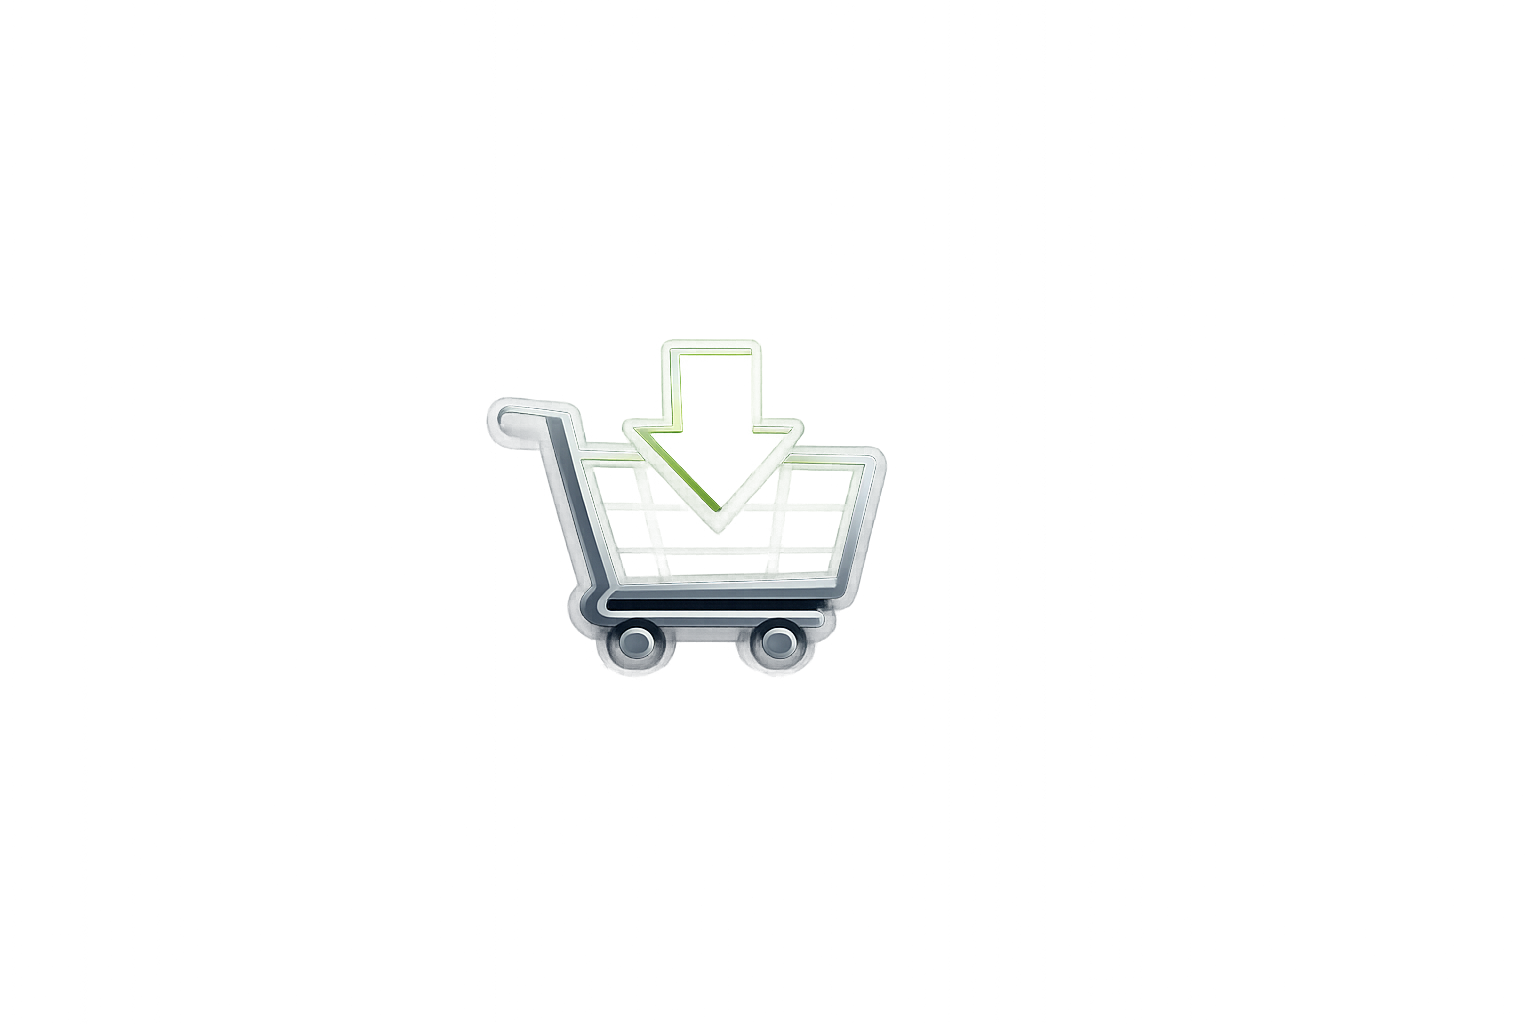
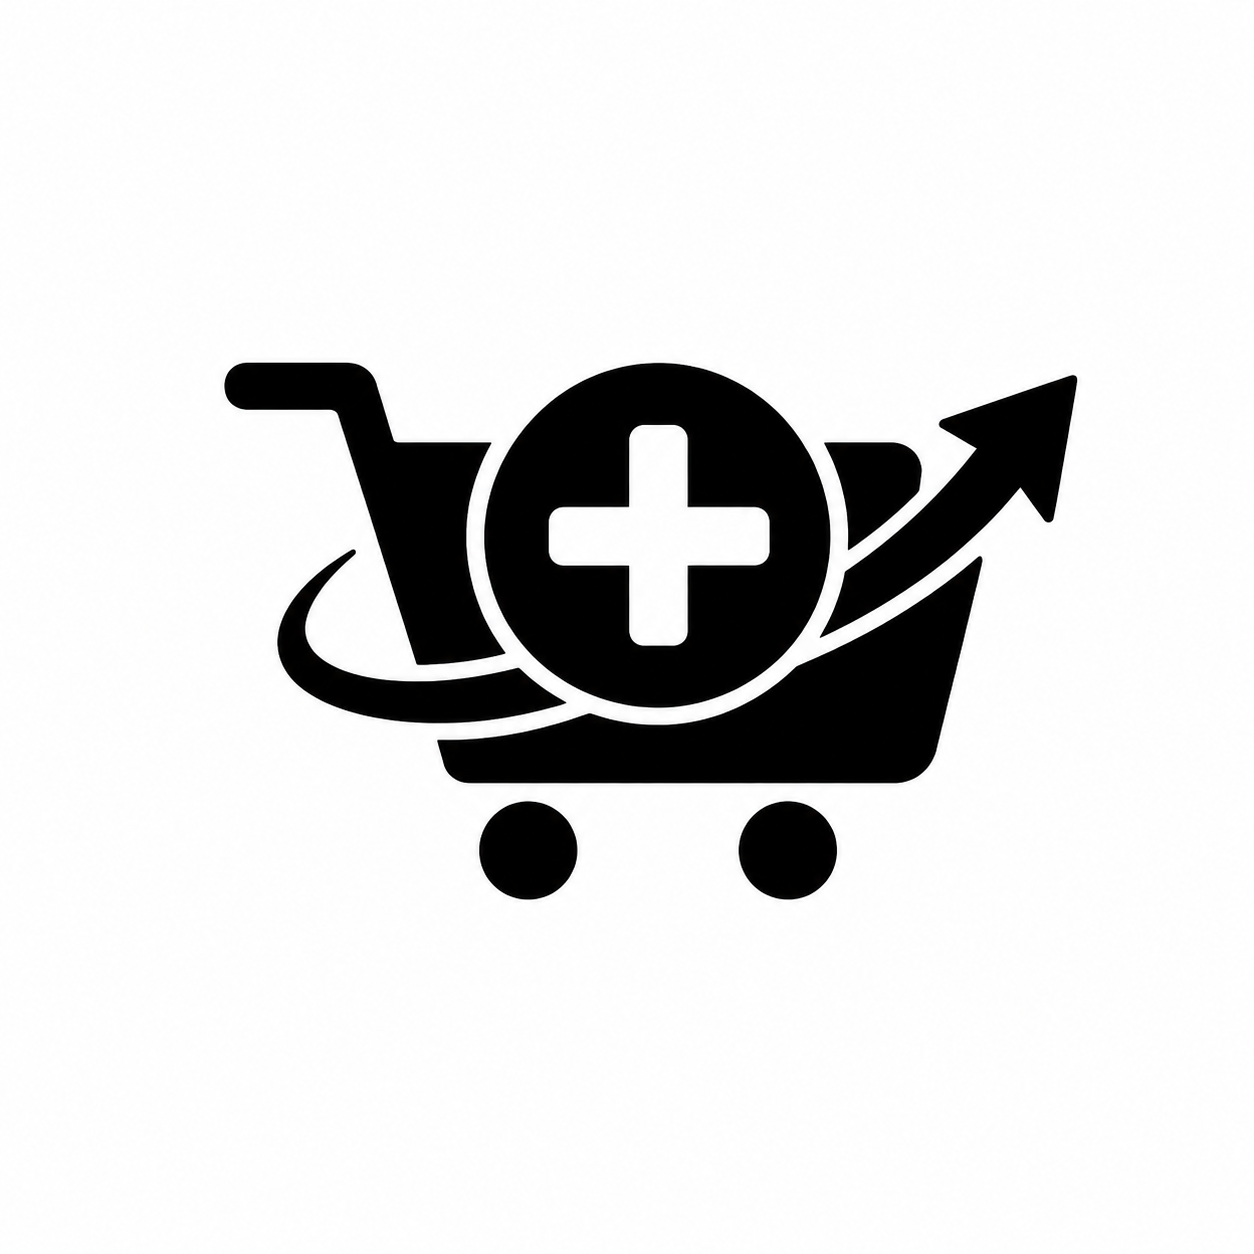
..bestlady..

Changed region(s): [[0.1555, 0.2812, 0.8708, 0.7188]]

diff --git a/myapp/static/css/style.css b/myapp/static/css/style.css
@@ -18,7 +18,7 @@ body {
 header {
     background: #fff;
     border-bottom: 1px solid #e5e5e5;
-    box-shadow: 0 2px 8px rgba(0,0,0,0.05);
+    box-shadow: 0 2px 8px rgba(0,0,0,0.06);
     position: sticky;
     top: 0;
     z-index: 100;
@@ -50,27 +50,19 @@ header {
     max-height: 55px;
     width: auto;
     display: block;
-    /* Restore logo styling to default color */
-    filter: none;
+    filter: none !important;
+    opacity: 1 !important;
 }
 
 .cart-icon {
-    display: flex;
+    display: inline-flex;
     align-items: center;
     justify-content: center;
-    width: 88px;
-    height: 88px;
-    border-radius: 50%;
-    background: #fcf8f5;
-    transition: background-color 0.3s, transform 0.3s;
+    background: transparent;
+    transition: transform 0.3s;
     text-decoration: none;
     flex-shrink: 0;
     position: relative;
-}
-
-.cart-icon:hover {
-    background: #dd5110;
-    transform: translateY(-3px);
 }
 
 .cart-badge {
@@ -84,39 +76,18 @@ header {
     height: 24px;
     padding: 0 8px;
     border-radius: 999px;
-    background: #222;
+    background: #000;
     color: #fff;
     font-size: 12px;
     font-weight: 800;
-    box-shadow: 0 6px 18px rgba(0, 0, 0, 0.25);
+    box-shadow: 0 6px 18px rgba(0, 0, 0, 0.12);
 }
 
 .cart-icon img {
     width: 56px;
     height: 56px;
     display: block;
-}
-
-@media (min-width: 769px) {
-    /* position the cart in the right corner on larger screens */
-    .cart-icon {
-        position: absolute;
-        right: 20px;
-        top: 50%;
-        transform: translateY(-50%);
-    }
-
-    .cart-icon:hover {
-        transform: translateY(calc(-50% - 3px));
-    }
-}
-
-.menu-toggle {
-    display: none;
-    background: none;
-    border: none;
-    font-size: 24px;
-    cursor: pointer;
+    filter: brightness(0) saturate(100%);
     color: #222;
     padding: 0;
     line-height: 1;
@@ -1032,7 +1003,7 @@ footer {
 /* Header */
 header {
     background: #fff;
-    border-bottom: 1px solid #ddd;
+    border-bottom: 1px solid #e5e5e5;
     position: relative;
 }
 
@@ -1067,7 +1038,7 @@ nav ul {
 
 nav a {
     text-decoration: none;
-    color: #333;
+    color: #222;
     font-weight: bold;
     font-size: 15px;
 }